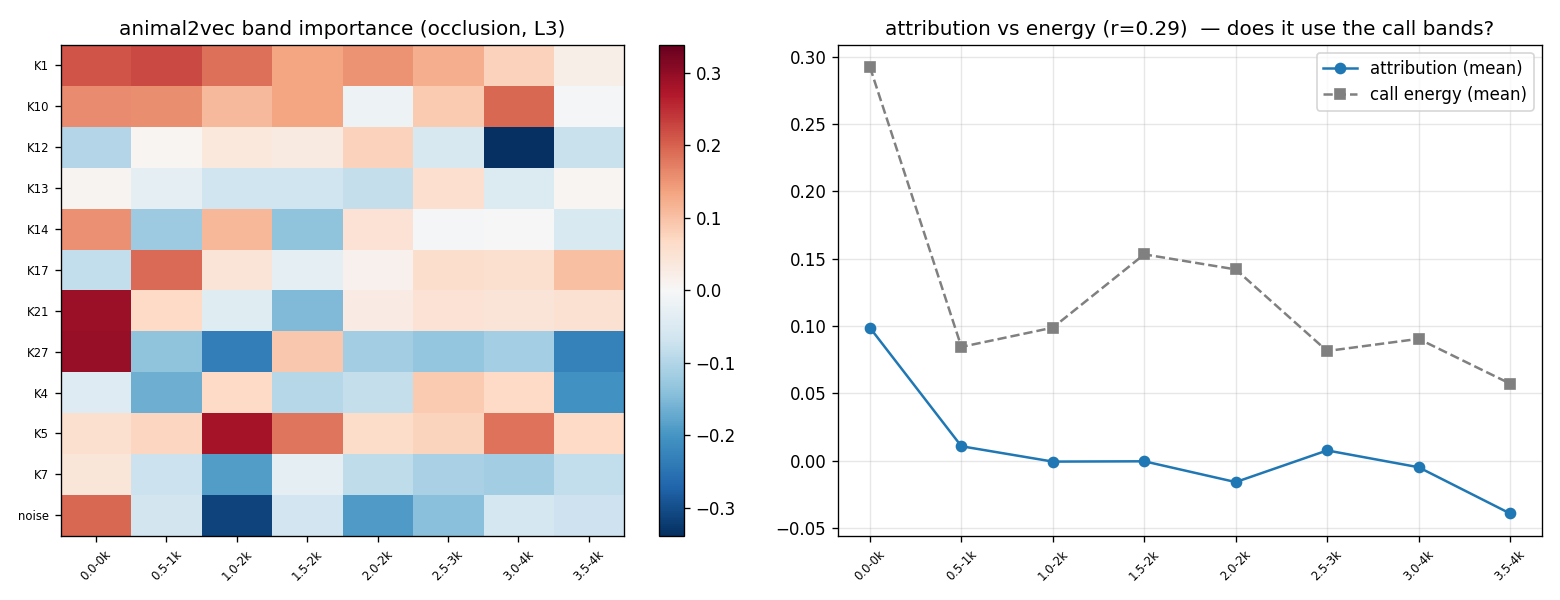
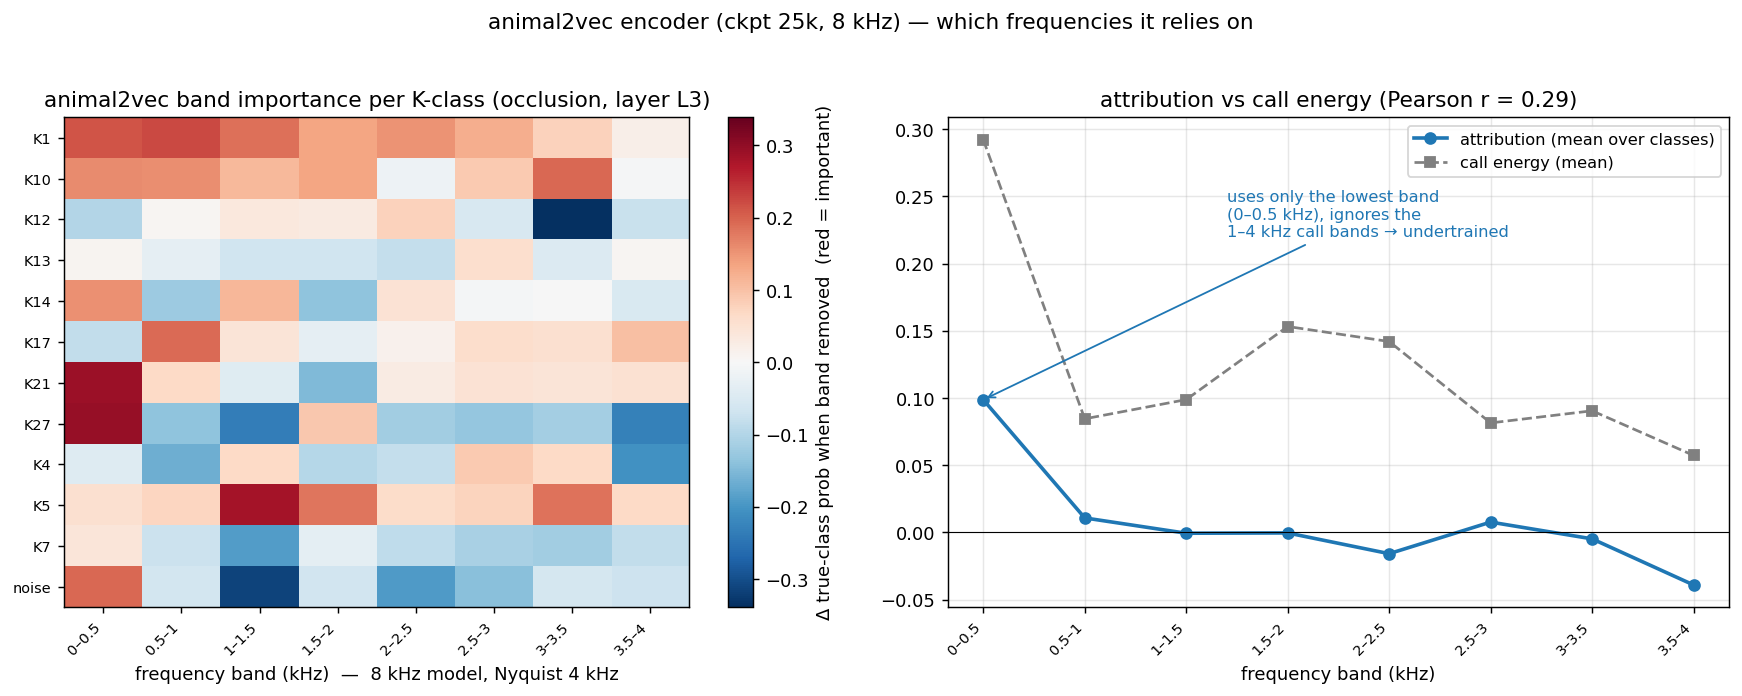
fix(validation): correct SHAP band-axis labels (.0f rounding mislabeled bands)
'1.0-2k' actually meant 1.0-1.5kHz etc. Re-rendered from a2v_shap.json with
exact 0.5kHz band labels + annotation/colorbar; patched a2v_shap.py label fmt;
added a2v_shap_replot.py (no-GPU re-render from JSON). Data unchanged.

diff --git a/docs/marine_mammal_ssl/validation/a2v_shap_replot.py b/docs/marine_mammal_ssl/validation/a2v_shap_replot.py
@@ -1,0 +1,36 @@
+#!/usr/bin/env python3
+"""Re-render the animal2vec SHAP figure from a2v_shap.json with CORRECT band labels
+(the original used .0f rounding -> '1.0-2k' actually meant 1.0-1.5kHz). No GPU needed."""
+import json, numpy as np
+import matplotlib; matplotlib.use("Agg"); import matplotlib.pyplot as plt
+D = json.load(open("/mnt/c/Users/Iaroslav/CETACEANS/a2v_validation/a2v_shap.json"))
+classes = list(D["band_importance"].keys())
+imp = np.array([D["band_importance"][c] for c in classes])
+mean_imp = np.array(D["mean_importance"]); mean_eng = np.array(D["mean_energy"])
+BL = D["best_layer"]; r = D["attr_vs_energy_pearson"]; NB = imp.shape[1]
+# correct, unambiguous labels (each band is 0.5 kHz wide)
+edges = [round(i * 0.5, 1) for i in range(NB + 1)]
+lab = [f"{edges[i]:g}–{edges[i+1]:g}" for i in range(NB)]  # 0-0.5, 0.5-1, ... 3.5-4 (kHz)
+
+fig, ax = plt.subplots(1, 2, figsize=(13.5, 5.2))
+m = abs(imp).max()
+im = ax[0].imshow(imp, aspect='auto', cmap='RdBu_r', vmin=-m, vmax=m)
+ax[0].set_yticks(range(len(classes))); ax[0].set_yticklabels(classes, fontsize=8)
+ax[0].set_xticks(range(NB)); ax[0].set_xticklabels(lab, rotation=45, fontsize=8, ha='right')
+ax[0].set_xlabel("frequency band (kHz)  —  8 kHz model, Nyquist 4 kHz")
+ax[0].set_title(f"animal2vec band importance per K-class (occlusion, layer L{BL})")
+cb = plt.colorbar(im, ax=ax[0]); cb.set_label("Δ true-class prob when band removed  (red = important)")
+
+ax[1].plot(range(NB), mean_imp, 'o-', lw=2, label='attribution (mean over classes)')
+ax[1].plot(range(NB), mean_eng, 's--', c='gray', label='call energy (mean)')
+ax[1].axhline(0, c='k', lw=.6)
+ax[1].set_xticks(range(NB)); ax[1].set_xticklabels(lab, rotation=45, fontsize=8, ha='right')
+ax[1].set_xlabel("frequency band (kHz)"); ax[1].legend(fontsize=9); ax[1].grid(alpha=.3)
+ax[1].set_title(f"attribution vs call energy (Pearson r = {r:.2f})")
+ax[1].annotate("uses only the lowest band\n(0–0.5 kHz), ignores the\n1–4 kHz call bands → undertrained",
+               xy=(0, mean_imp[0]), xytext=(2.4, 0.22), fontsize=9,
+               arrowprops=dict(arrowstyle='->', color='C0'), color='C0')
+fig.suptitle("animal2vec encoder (ckpt 25k, 8 kHz) — which frequencies it relies on", fontsize=12, y=1.02)
+plt.tight_layout()
+plt.savefig("/mnt/c/Users/Iaroslav/CETACEANS/a2v_validation/a2v_shap_for_anvar.png", dpi=130, bbox_inches='tight')
+print("saved a2v_shap_for_anvar.png with corrected labels:", lab)

diff --git a/docs/marine_mammal_ssl/validation/a2v_shap.py b/docs/marine_mammal_ssl/validation/a2v_shap.py
@@ -95,7 +95,7 @@ out = {"ckpt": ckpt.split("/")[-1], "best_layer": int(BL), "best_f1": float(f1s[
        "attr_vs_energy_pearson": r}
 json.dump(out, open("/mnt/c/Users/Iaroslav/CETACEANS/a2v_validation/a2v_shap.json", "w"), indent=2)
 
-bl = [f"{lo/1000:.1f}-{hi/1000:.0f}k" for lo, hi in BANDS]
+bl = [f"{lo/1000:g}-{hi/1000:g}" for lo, hi in BANDS]   # kHz, exact (no rounding)
 fig, ax = plt.subplots(1, 2, figsize=(13, 5))
 im = ax[0].imshow(imp, aspect='auto', cmap='RdBu_r', vmin=-abs(imp).max(), vmax=abs(imp).max())
 ax[0].set_yticks(range(len(classes))); ax[0].set_yticklabels(classes, fontsize=7); ax[0].set_xticks(range(NB)); ax[0].set_xticklabels(bl, rotation=45, fontsize=7)